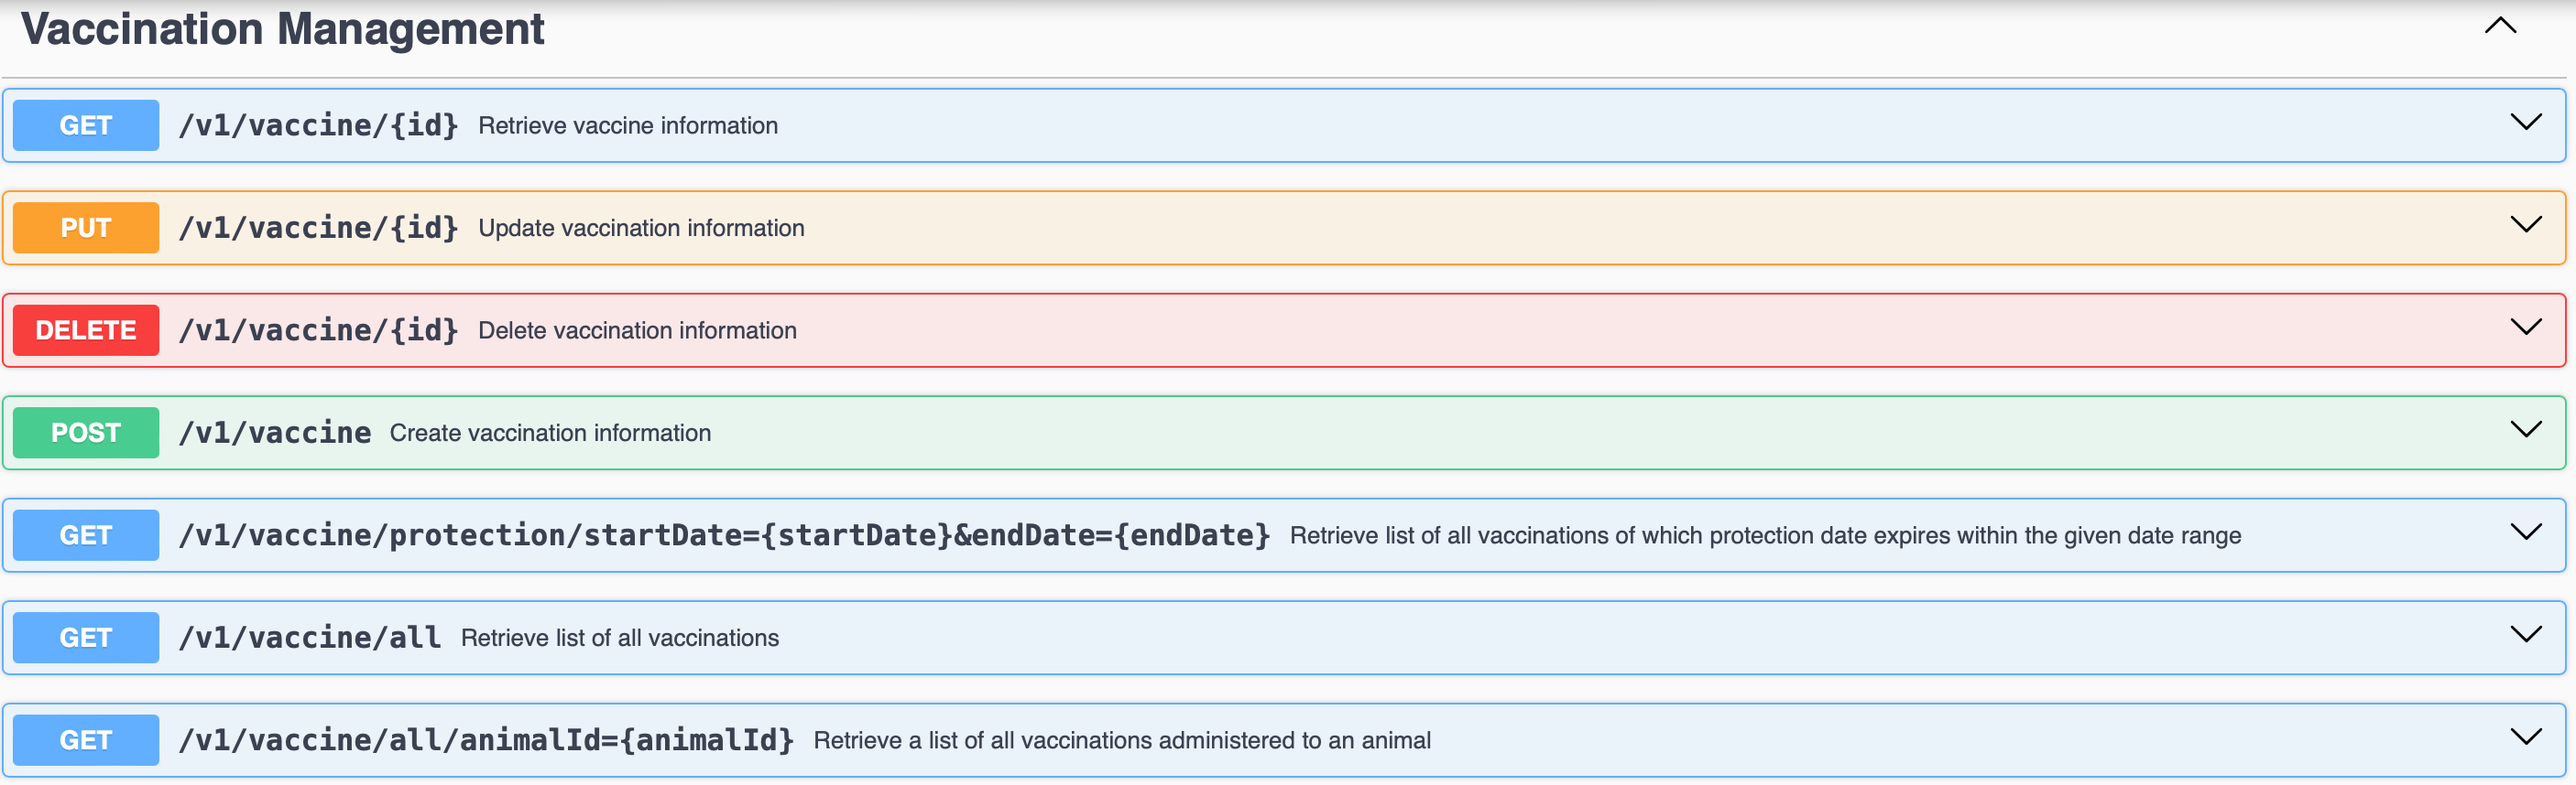
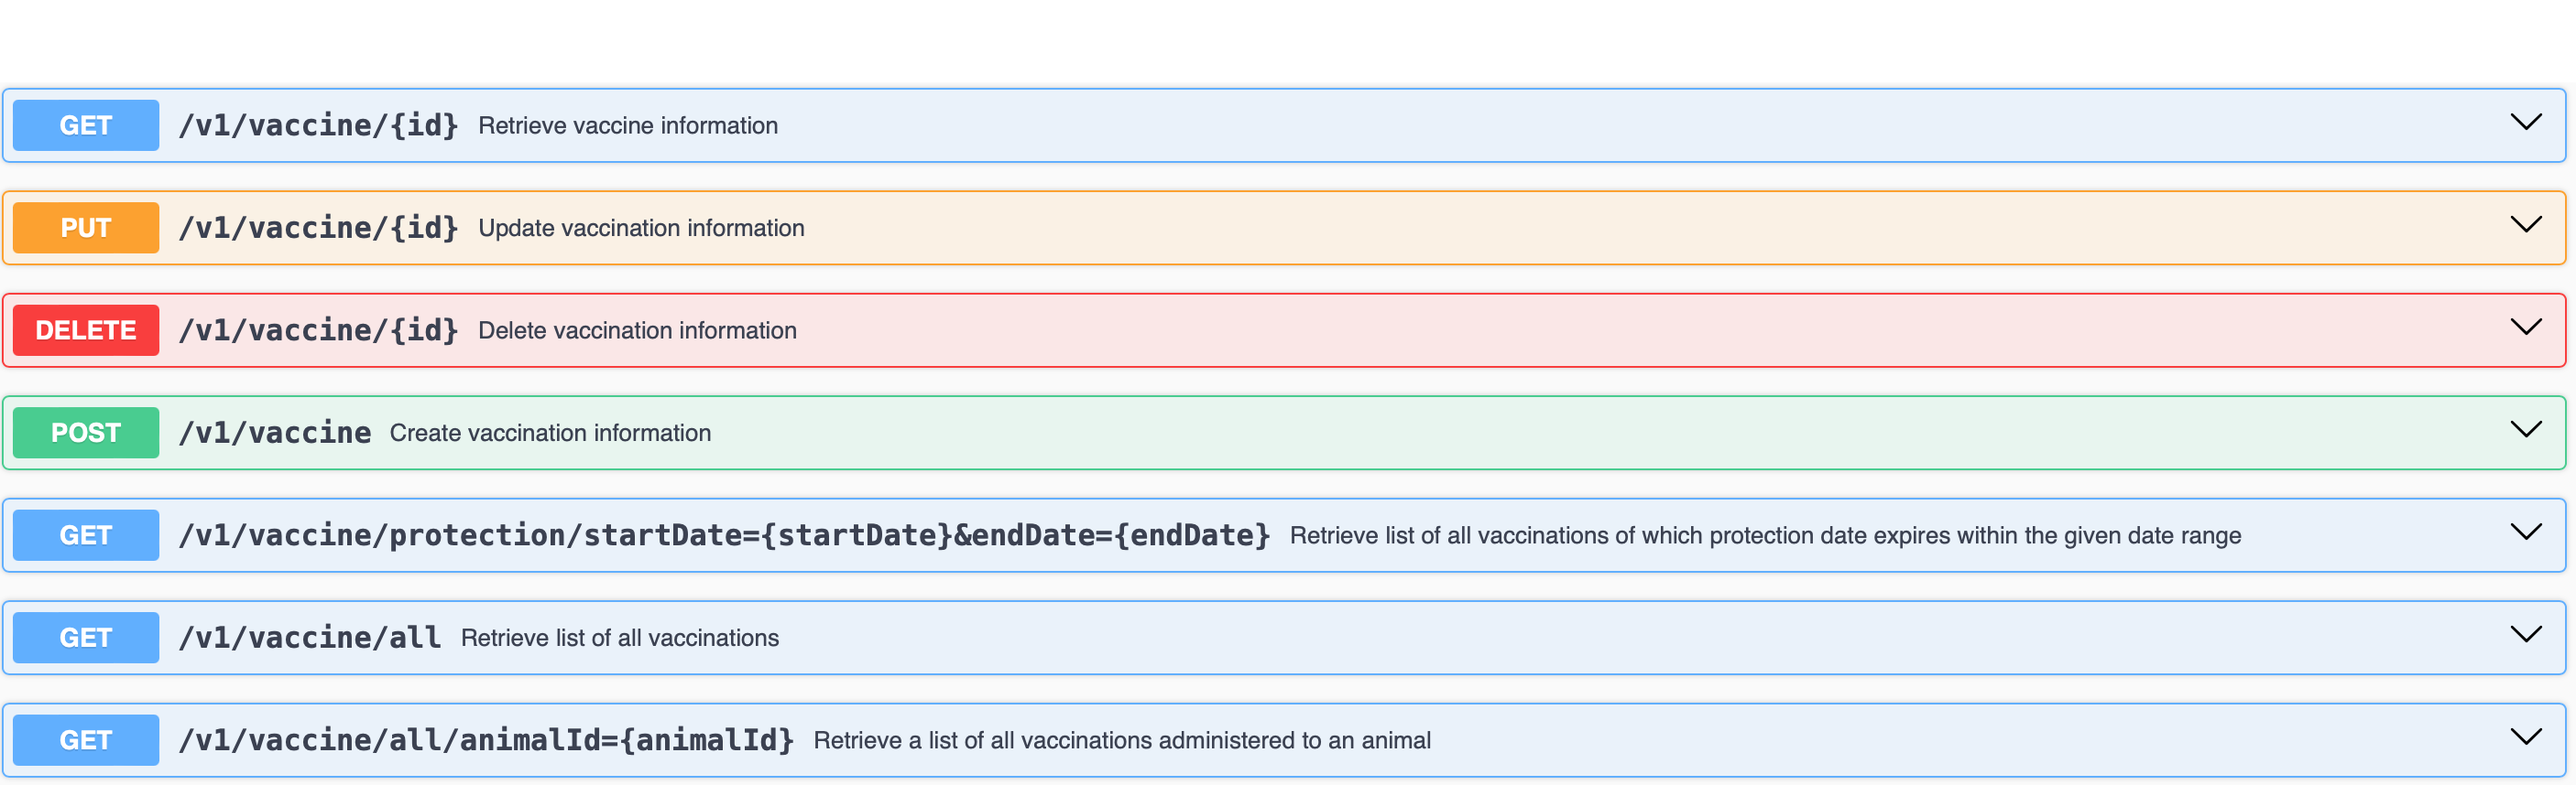
update readme crop images

Changed region(s): [[0.0, 0.0, 1.0, 0.0606]]

diff --git a/README.md b/README.md
@@ -8,14 +8,29 @@ vet REST API project exposes endpoints for a veterinary management system that y
     swagger-core v3 (for api documentation)
 
 ## Entity Relations
-
 ![ER Diagram](vet_er_diagram.png)
 
 ## API Documentation
-
+### Customer Management
+Create, update, delete, list customers or search for customer by name:
 ![customer management](customer_management.png)
+
+### Animal Management
+Create, update, delete, list animals or search by animal name or customer id:
 ![animal management](animal_management.png)
+
+### Vaccination Management
+Create, update, delete, list vaccinations, filter vaccines by animal id, filter by protection date:
 ![vaccination management](vaccination_management.png)
+
+### Veterinarian Management
+Create, update, delete, list veterinarians, manage veterinarian available dates:
 ![veterinarian management](veterinarian_management.png)
+
+### Available Date Management
+Create, update, delete, list available dates:
 ![available date management](available_date_management.png)
+
+### Appointment Management
+Create appointments for animals if for an available veterinarian, update, delete, list appointments, filter appointments by animals or veterinarians on a certain date range: 
 ![appointment management](appointment_management.png)
